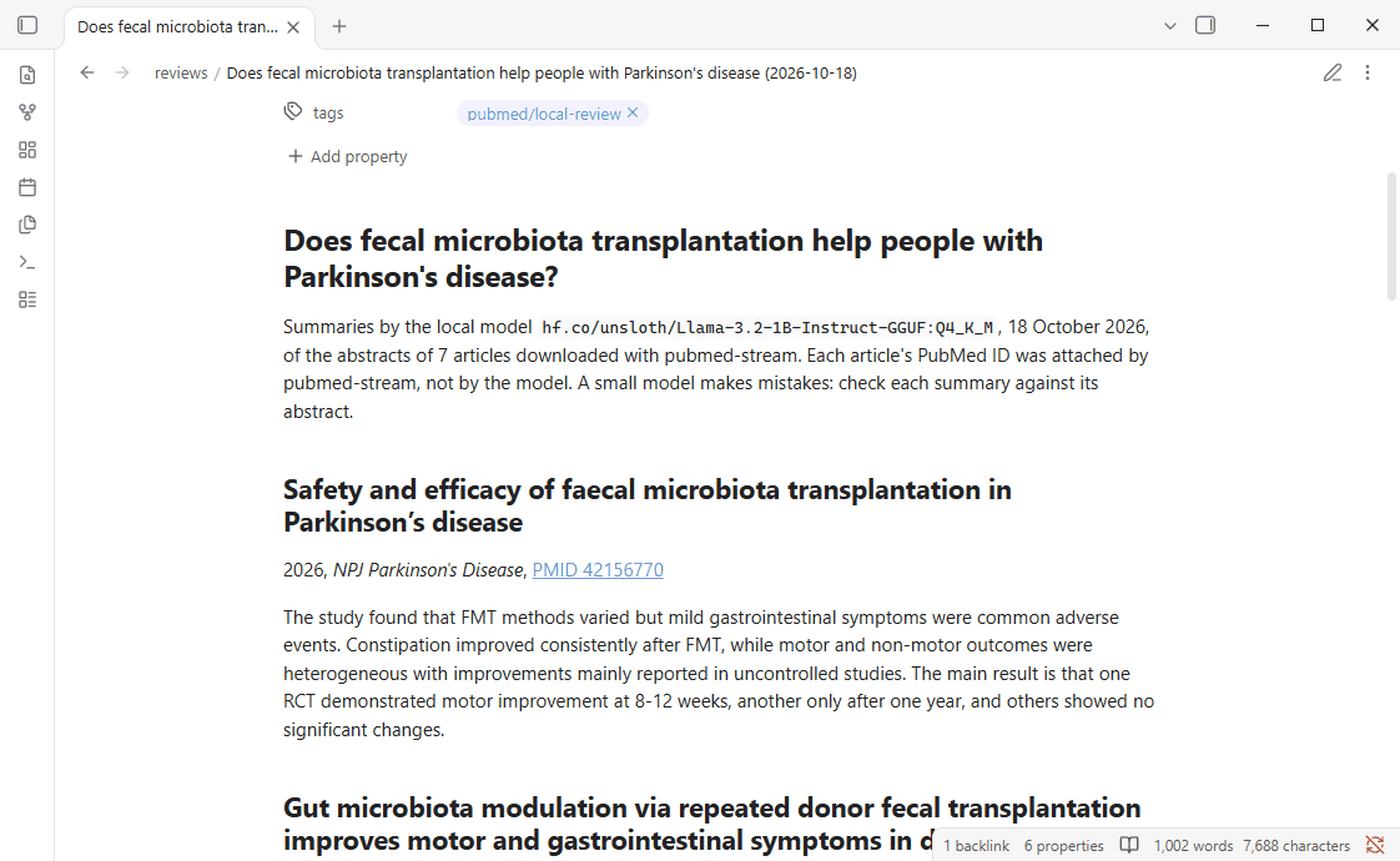
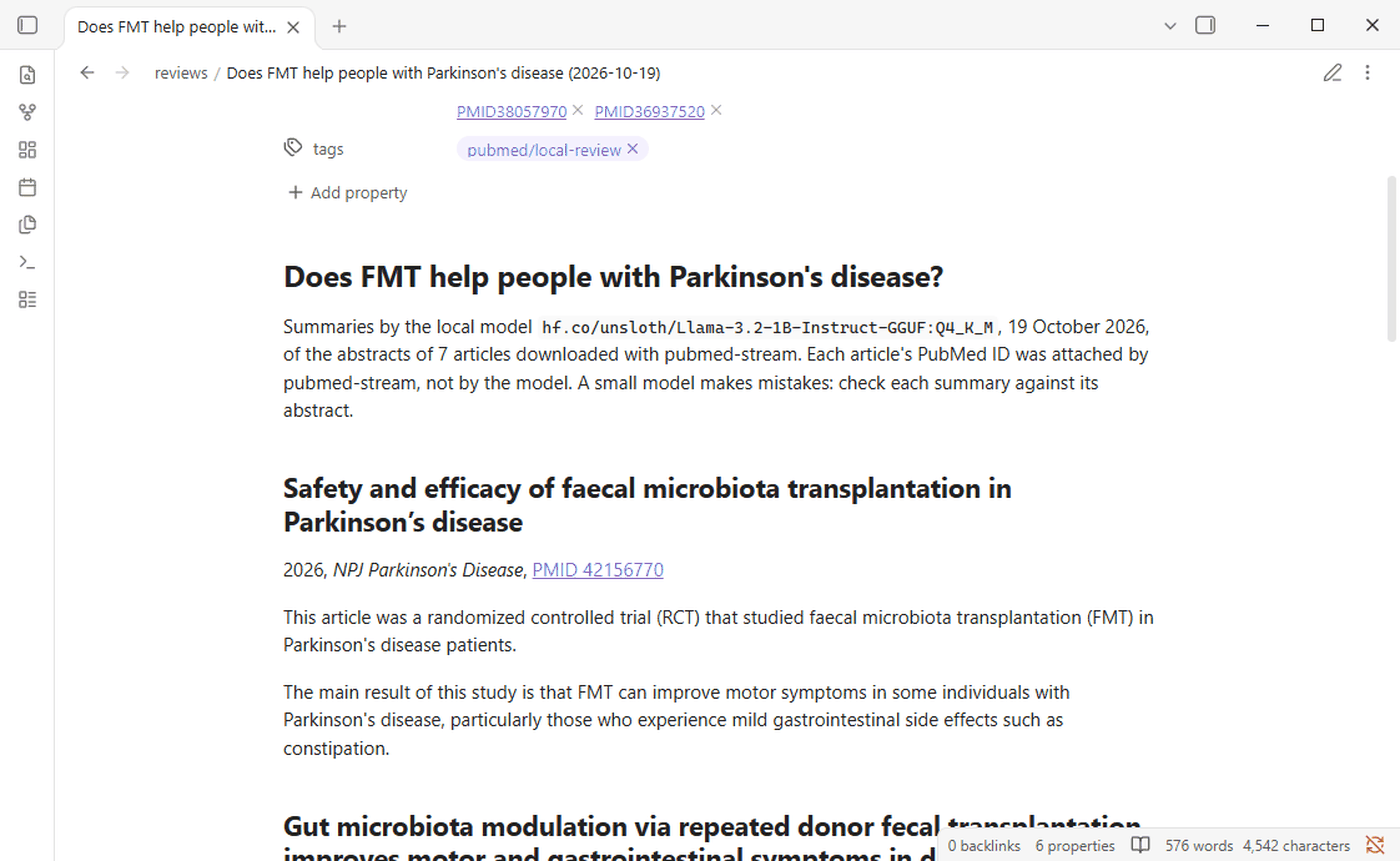
chore: Release 0.3.2
Also retake tutorial 7's screenshot of a local review with the new
summary prompt, and report there that summaries can change after Ollama
reloads the model.

diff --git a/pubmed_stream/review.py b/pubmed_stream/review.py
@@ -12,7 +12,8 @@ With ``answer=True`` the model also writes one answer from all the
 summaries.  Small models often mix up or invent claims across papers, so the
 answer is checked too: every PubMed ID it cites must be among the articles
 read.  Generation uses temperature 0, so the same input gives the same
-output.
+output while the model stays loaded; after Ollama reloads it, the output
+can differ.
 """
 
 import datetime

diff --git a/pubmed_stream/__init__.py b/pubmed_stream/__init__.py
@@ -1,6 +1,6 @@
 """pubmed-stream – Download PubMed Central full-text articles."""
 
-__version__ = "0.3.1"
+__version__ = "0.3.2"
 
 from .downloader import (
     DownloadStats,

diff --git a/tutorials/07_ai_assistant.md b/tutorials/07_ai_assistant.md
@@ -376,9 +376,9 @@ It summarizes each paper separately and prints the summaries. pubmed-stream, not
 
 The model sees only one abstract at a time, never your question: given the question, small models tend to open with it restated as a finding ("The gut microbiota is linked to frailty.") even when the paper did not test it.
 
-**How well did it do?** On the seven papers above, six of seven summaries were accurate, with the details copied correctly. The seventh called a review of eleven studies a randomized controlled trial, although it reported the review's results correctly. With `--answer`, the model also writes one answer from all the summaries, but at this size that answer is unreliable: it invented contradictions and credited findings to the wrong papers. Use the summaries as a fast first reading, check them against the abstracts, and draw conclusions yourself.
+**How well did it do?** On the seven papers above, six of seven summaries were usually accurate, with the details copied correctly. The one at the top of the picture is the exception: it calls a review of eleven studies a randomized controlled trial and muddles its result. Run again straight away, the model gives the same summaries, but after Ollama reloads the model they can change, and with a model this small so can their accuracy: in one run three of the seven were wrong, one saying the treatments improved cognitive function when the paper found they did not. With `--answer`, the model also writes one answer from all the summaries, but at this size that answer is unreliable: it invented contradictions and credited findings to the wrong papers. Use the summaries as a fast first reading, check them against the abstracts, and draw conclusions yourself.
 
-The model gives the same summaries every time for the same papers. On a laptop with a graphics card, seven papers took about 5 seconds; without one, allow a few seconds to a minute per paper. [Section 4](#4-choose-a-model) shows how to use a larger model.
+On a laptop with a graphics card, seven papers took 5 to 12 seconds; without one, allow a few seconds to a minute per paper. [Section 4](#4-choose-a-model) shows how to use a larger model.
 
 ---
 

diff --git a/CHANGELOG.md b/CHANGELOG.md
@@ -2,7 +2,7 @@
 
 Notable changes to pubmed-stream. Versions follow [semantic versioning](https://semver.org/).
 
-## Unreleased
+## 0.3.2 - 2026-10-19
 
 ### Added
 
@@ -12,6 +12,7 @@ Notable changes to pubmed-stream. Versions follow [semantic versioning](https://
 ### Changed
 
 - `pubmed-stream review` no longer shows the question to the model while it summarizes each abstract. Given the question, small models opened summaries with it restated as a finding ("The gut microbiota is linked to frailty.") even for papers that did not test it. Summaries now start with the kind of study and what it studied. The question is still used for `--answer`.
+- Tutorial 7 reports how the local model did with the new summaries, with a new screenshot, and that its summaries can change after Ollama reloads the model.
 
 ### Fixed
 
